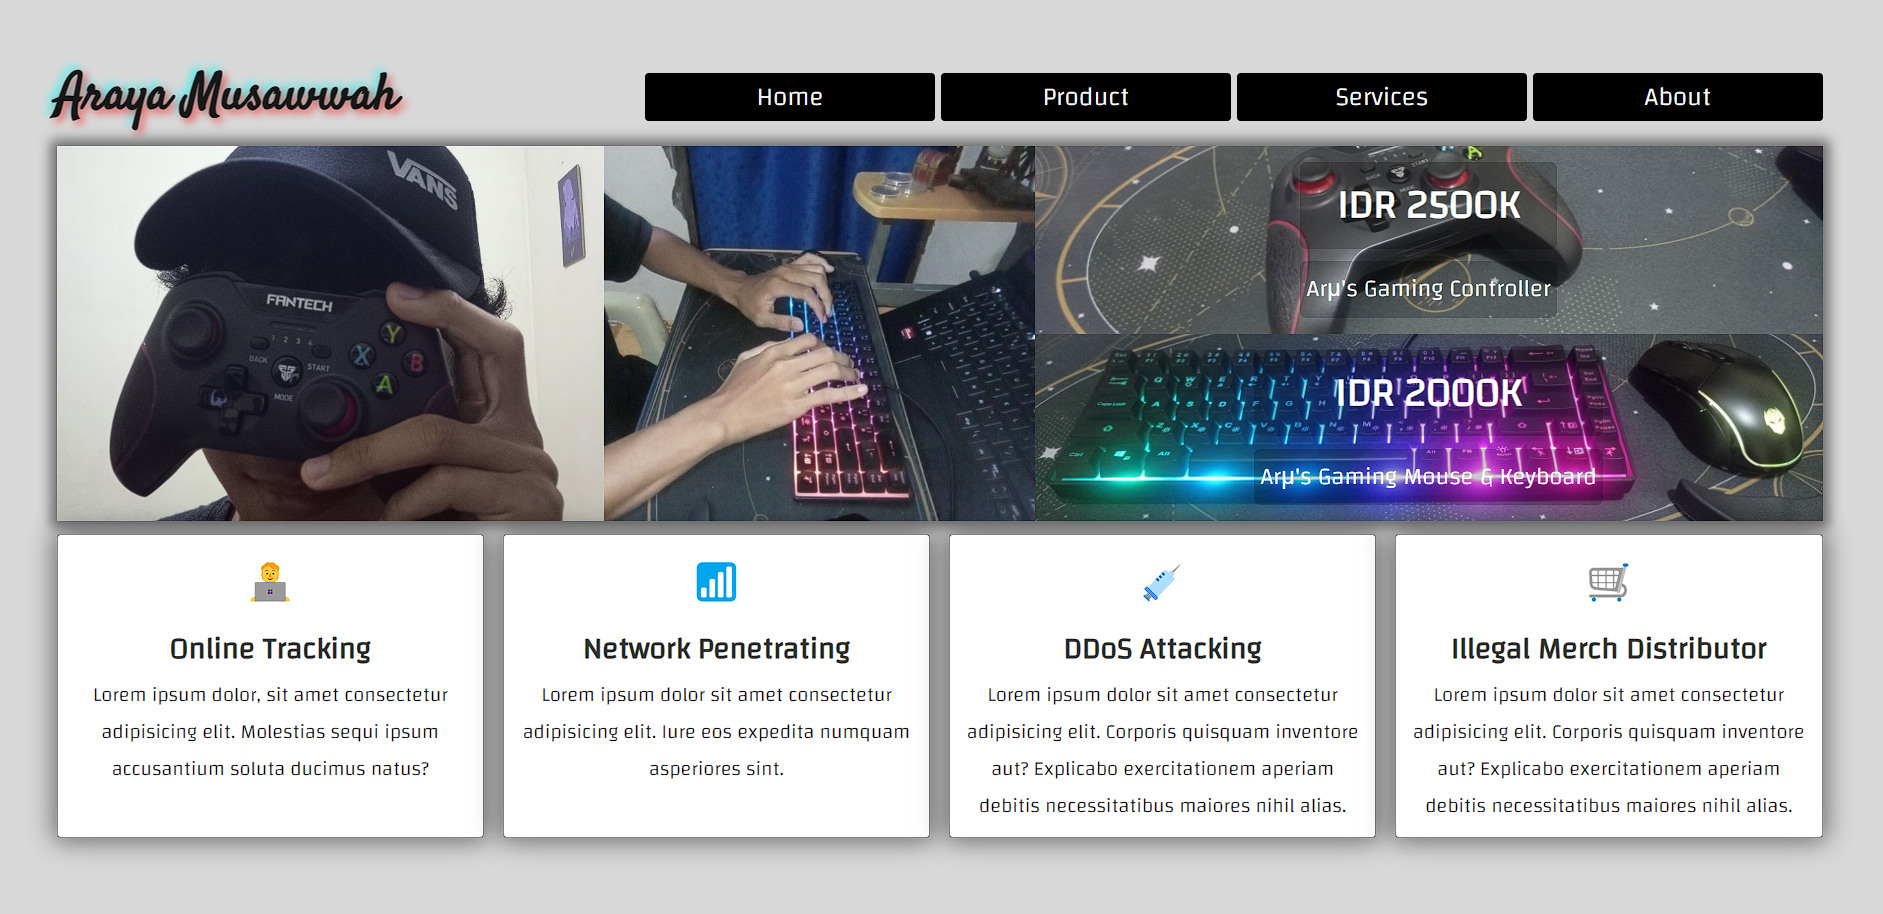
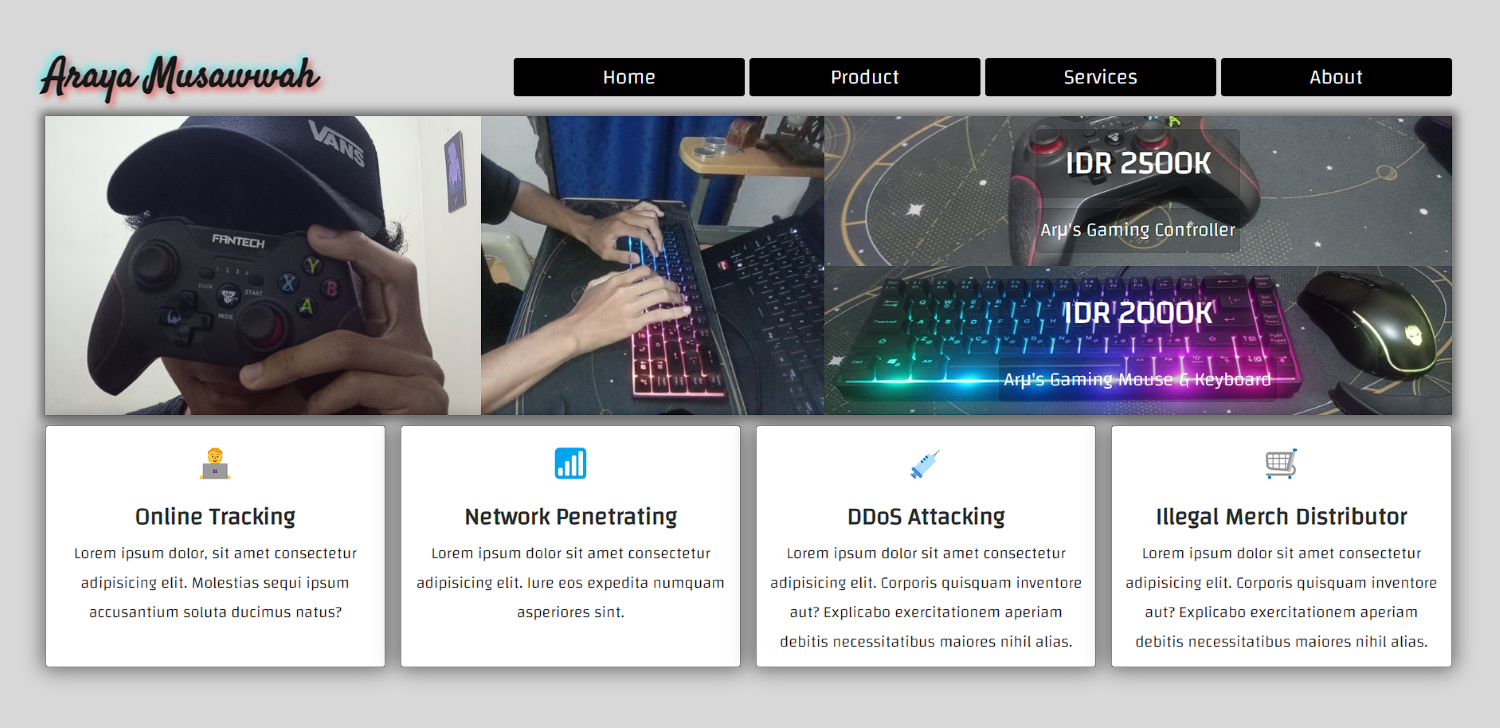
patch update & javascript update

diff --git a/index.html b/index.html
@@ -46,11 +46,11 @@
     <header class="w-full bg-transparent absolute top-0 left-0 flex justify-between items-center z-10">
         <div class="container mx-auto">
             <div class="flex items-center justify-between relative">
-                <div class="px-4 py-4">
-                    <a href="#home" class="text-2xl font-bold text-primary lg:text-3xl block">Araya Musawwah</a>
+                <div class="pl-4 py-4">
+                    <a href="#home" class="text-2xl font-bold text-primary lg:text-xl xl:text-3xl block">Araya Musawwah</a>
                 </div>
                 <div class="flex flex-wrap items-center px-5">
-                    <button id="hamburger"  name="hamburger" type="button" class="block absolute right-4 lg:hidden">
+                    <button id="hamburger"  name="hamburger" type="button" class="inline-block absolute right-4 lg:hidden">
                         <span class="burger origin-top-left"></span>
                         <span class="burger"></span>
                         <span class="burger origin-bottom-left"></span>
@@ -75,11 +75,11 @@
                             <li class="group">
                                 <a href="#contact" class="text-base flex py-2 mx-4 font-bold group-hover:text-primary">Contact</a>
                             </li>
-                            <li class="flex items-center lg:ml-4 font-semibold capitalize px-4 pb-4 pt-2">
+                            <li class="flex items-center lg:ml-4 font-bold capitalize px-4 pb-4 pt-2">
                                 <span class="mr-2">light</span>
                                 <input type="checkbox" class="dark-toggle hidden" id="darkToggle">
                                 <label for="darkToggle">
-                                    <div class="bg-slate-800 dark:bg-slate-400 w-12 h-6 rounded-full flex items-center px-1 cursor-pointer">
+                                    <div class="bg-slate-400 dark:bg-slate-500 w-12 h-6 rounded-full flex items-center px-1 cursor-pointer">
                                         <div class="rounded-full bg-primary w-5 h-5 inset-1 transition duration-300 ease-in-out circle"></div>
                                     </div>
                                 </label>
@@ -93,10 +93,10 @@
     </header>
 
 <!-- Home section -->
-    <section id="home" class="pt-20 sm:pt-40 md:pt-32 dark:text-secondary dark:lg:text-tertiary"> 
+    <section id="home" class="pt-20 sm:pt-40 md:pt-32 dark:text-secondary dark:md:text-tertiary"> 
         <div class="container max-w-full">
-            <div class="flex flex-wrap md:justify-between">
-                <div class="w-full sm:w-10/12 md:w-1/2 self-center justify-center px-4 py-6 md:bg-indigo-200 dark:md:bg-indigo-200 md:border md:border-gray-400/50 md:shadow md:shadow-indigo-500/50 md:text-left md:rounded-tr-[70px] md:rounded-tl-[50px] md:rounded-br-[150px] md:pl-12">
+            <div class="flex flex-wrap md:justify-between md:text-lg">
+                <div class="w-full sm:w-10/12 md:w-1/2 self-center justify-center px-4 py-6 md:bg-indigo-200 dark:md:bg-indigo-200 md:shadow-lg md:shadow-indigo-300/50 md:text-left md:rounded-tr-[70px] md:rounded-tl-[50px] md:rounded-br-[150px] md:pl-12">
                     <h1 class="text-lg">Oh! Hello There, <span class="text-red-500">Wanderer!</span> My Name Is</h1>
                     <h2 class="text-4xl text-primary font-extrabold my-4 lg:text-5xl">Araya Musawwah</h2>
                     <h3 class="my-2 text md font-semibold"><span class="text-teal-600">Frontend Developer</span> | <span class="text-indigo-600">Web Programmer</span></h3>
@@ -104,15 +104,17 @@
                     <button class="rounded-full bg-primary text-white px-6 py-2 mt-6 shadow-lg shadow-primary/50 hover:bg-indigo-600"><a href="#">Hire Me!</a></button>
                 </div>
                 <div class="w-full self-end md:w-[35%] md:mr-10 sm:w-2/3 mx-auto">
-                    <div class="relative mt-4 sm:right-0 w-full">
-                        <img src="img/hero.png" alt="Araya Musawwah" class="w-full bg-top bg-auto">
+                    <div class="relative mt-4 sm:right-0 w-full ">
+                        <div class="rounded-b-[35%] overflow-hidden">
+                            <img src="img/hero.png" alt="Araya Musawwah" class="w-full bg-top">
+                        </div>
                         <svg viewBox="0 0 200 200" xmlns="http://www.w3.org/2000/svg" class="absolute top-0 left-20 -z-10">
                             <path fill="#8A3FFC" d="M70.4,-24.2C78.8,2.9,64.5,36,43.4,48.6C22.4,61.3,-5.4,53.5,-28.9,37.1C-52.4,20.7,-71.6,-4.4,-66,-27.6C-60.5,-50.7,-30.2,-72,0.4,-72.1C31,-72.3,62,-51.2,70.4,-24.2Z" transform="translate(100 100)scale(1.3)" />
                         </svg>
                         <svg viewBox="0 0 200 200" xmlns="http://www.w3.org/2000/svg" class="absolute top-20 right-40 -z-10">
                             <path fill="#8A3FFC" d="M48.3,-18.4C53.8,1.3,43.5,23.5,25.8,36.6C8,49.7,-17.1,53.9,-32.5,43.1C-47.9,32.2,-53.7,6.4,-46.7,-15.3C-39.7,-37.1,-19.8,-54.9,0.8,-55.2C21.4,-55.4,42.8,-38.1,48.3,-18.4Z" transform="translate(30 100) scale(0.3)" />
                         </svg>
-                        <svg viewBox="0 0 200 200" xmlns="http://www.w3.org/2000/svg" class="absolute top-40 left-[30px]">
+                        <svg viewBox="0 0 200 200" xmlns="http://www.w3.org/2000/svg" class="absolute top-40 left-[30px] -z-10 ">
                             <path fill="#8A3FFC" d="M48.3,-18.4C53.8,1.3,43.5,23.5,25.8,36.6C8,49.7,-17.1,53.9,-32.5,43.1C-47.9,32.2,-53.7,6.4,-46.7,-15.3C-39.7,-37.1,-19.8,-54.9,0.8,-55.2C21.4,-55.4,42.8,-38.1,48.3,-18.4Z" transform="translate(15 90) scale(0.3)" />
                         </svg>
                     </div>
@@ -130,7 +132,7 @@
                     <h1 class="text-2xl lg:text-3xl font-bold capitalize">Let's join my adventure together to conquer The Ninth Realm.</h1>
                     <p class="lg:text-lg">Lorem ipsum dolor sit amet consectetur adipisicing elit. Illum incidunt excepturi earum illo sed deleniti! Tempora totam deleniti quidem omnis dolores!</p>
                 </div>
-                <div class="mb-4 md:w-1/2 md:mt-28 md:p-4 -mr-6">
+                <div class="mb-4 md:w-1/2 md:mt-28 md:p-4 px-2">
                     <h2 class="text-xl lg:text-2xl font-semibold text-primary"> Take me with you!</h2>
                     <h1 class="mb-3 lg:text-xl font-semibold">It's dangerous to go out alone.</h1>
                     <p class="lg:text-lg">Lorem ipsum dolor sit amet consectetur adipisicing elit. Neque rem nostrum dolorum ea voluptatem.</p>
@@ -142,7 +144,7 @@
                         <a href="https://instagram.com/elite.iqbal" target="_blank" class="media-icon">
                             <svg class="fill-current" width="20" role="img" viewBox="0 0 24 24" xmlns="http://www.w3.org/2000/svg"><title>Instagram</title><path d="M12 0C8.74 0 8.333.015 7.053.072 5.775.132 4.905.333 4.14.63c-.789.306-1.459.717-2.126 1.384S.935 3.35.63 4.14C.333 4.905.131 5.775.072 7.053.012 8.333 0 8.74 0 12s.015 3.667.072 4.947c.06 1.277.261 2.148.558 2.913.306.788.717 1.459 1.384 2.126.667.666 1.336 1.079 2.126 1.384.766.296 1.636.499 2.913.558C8.333 23.988 8.74 24 12 24s3.667-.015 4.947-.072c1.277-.06 2.148-.262 2.913-.558.788-.306 1.459-.718 2.126-1.384.666-.667 1.079-1.335 1.384-2.126.296-.765.499-1.636.558-2.913.06-1.28.072-1.687.072-4.947s-.015-3.667-.072-4.947c-.06-1.277-.262-2.149-.558-2.913-.306-.789-.718-1.459-1.384-2.126C21.319 1.347 20.651.935 19.86.63c-.765-.297-1.636-.499-2.913-.558C15.667.012 15.26 0 12 0zm0 2.16c3.203 0 3.585.016 4.85.071 1.17.055 1.805.249 2.227.415.562.217.96.477 1.382.896.419.42.679.819.896 1.381.164.422.36 1.057.413 2.227.057 1.266.07 1.646.07 4.85s-.015 3.585-.074 4.85c-.061 1.17-.256 1.805-.421 2.227-.224.562-.479.96-.899 1.382-.419.419-.824.679-1.38.896-.42.164-1.065.36-2.235.413-1.274.057-1.649.07-4.859.07-3.211 0-3.586-.015-4.859-.074-1.171-.061-1.816-.256-2.236-.421-.569-.224-.96-.479-1.379-.899-.421-.419-.69-.824-.9-1.38-.165-.42-.359-1.065-.42-2.235-.045-1.26-.061-1.649-.061-4.844 0-3.196.016-3.586.061-4.861.061-1.17.255-1.814.42-2.234.21-.57.479-.96.9-1.381.419-.419.81-.689 1.379-.898.42-.166 1.051-.361 2.221-.421 1.275-.045 1.65-.06 4.859-.06l.045.03zm0 3.678c-3.405 0-6.162 2.76-6.162 6.162 0 3.405 2.76 6.162 6.162 6.162 3.405 0 6.162-2.76 6.162-6.162 0-3.405-2.76-6.162-6.162-6.162zM12 16c-2.21 0-4-1.79-4-4s1.79-4 4-4 4 1.79 4 4-1.79 4-4 4zm7.846-10.405c0 .795-.646 1.44-1.44 1.44-.795 0-1.44-.646-1.44-1.44 0-.794.646-1.439 1.44-1.439.793-.001 1.44.645 1.44 1.439z"/></svg>
                         </a>
-                        <a href="https://github.com/WatariAuditore" target="_blank" class="media-icon">
+                        <a href="https://github.com/arayaMusawwah" target="_blank" class="media-icon">
                             <svg class="fill-current" width="20" role="img" viewBox="0 0 24 24" xmlns="http://www.w3.org/2000/svg"><title>GitHub</title><path d="M12 .297c-6.63 0-12 5.373-12 12 0 5.303 3.438 9.8 8.205 11.385.6.113.82-.258.82-.577 0-.285-.01-1.04-.015-2.04-3.338.724-4.042-1.61-4.042-1.61C4.422 18.07 3.633 17.7 3.633 17.7c-1.087-.744.084-.729.084-.729 1.205.084 1.838 1.236 1.838 1.236 1.07 1.835 2.809 1.305 3.495.998.108-.776.417-1.305.76-1.605-2.665-.3-5.466-1.332-5.466-5.93 0-1.31.465-2.38 1.235-3.22-.135-.303-.54-1.523.105-3.176 0 0 1.005-.322 3.3 1.23.96-.267 1.98-.399 3-.405 1.02.006 2.04.138 3 .405 2.28-1.552 3.285-1.23 3.285-1.23.645 1.653.24 2.873.12 3.176.765.84 1.23 1.91 1.23 3.22 0 4.61-2.805 5.625-5.475 5.92.42.36.81 1.096.81 2.22 0 1.606-.015 2.896-.015 3.286 0 .315.21.69.825.57C20.565 22.092 24 17.592 24 12.297c0-6.627-5.373-12-12-12"/></svg>
                         </a>
                         <a href="discordapp.com/users/ynarhammargatroid" target="_blank" class="media-icon">
@@ -240,10 +242,10 @@
     </section>
 
 <!-- blog section -->
-    <section id="blog" class="bg-stone-400 dark:bg-stone-700 pt-24 pb-36">
+    <section id="blog" class="bg-stone-400 dark:bg-stone-800 pt-24 pb-36">
         <div class="container mx-auto max-w-full lg:w-10/12">
             <div class="max-w-full mx-auto text-center mb-16 p-4">
-                <h1 class="text-lg lg:text-2xl text-primary font-bold">Blog</h1>
+                <h1 class="text-xl lg:text-2xl text-primary font-bold">Blog</h1>
                 <h2 class="text-3xl font-bold pt-2 pb-6">Our Featured Posts and Blogs</h2>
                 <p> Lorem ipsum dolor sit amet consectetur adipisicing elit. Eaque dolores quidem commodi officia necessitatibus sed quibusdam atque illo itaque cum, adipisci odio cupiditate iure beatae consectetur esse nulla. Iure, vero!</p>
             </div>
@@ -329,7 +331,7 @@
                         <p>Tangerang Selatan</p>
                     </div>
                     <div class="w-full lg:w-1/3  px-4 mb-4 text-secondary">
-                        <h3 class="text-xl mb-3 font-semibold">Category</h3>
+                        <h3 class="text-xl mb-4 font-semibold">Category</h3>
                         <ul>
                             <li>
                                 <a href="#" class="inline-block hover:text-primary mb-3">Gaming Section</a>
@@ -343,7 +345,7 @@
                         </ul>
                     </div>
                     <div class="w-full lg:w-1/3 px-4 mb-4 text-secondary">
-                        <h4 class="text-xl mb-3 font-semibold">Index</h4>
+                        <h4 class="text-xl mb-4 font-semibold">Index</h4>
                         <ul>
                             <li>
                                 <a href="#home" class="inline-block hover:text-primary mb-3">Home</a>
@@ -374,7 +376,7 @@
                         <a href="https://instagram.com/elite.iqbal?igshid=NGVhN2U2NjQ0Yg==" target="_blank" class="media-icon bg-slate-900">
                             <svg class="fill-current" width="20" role="img" viewBox="0 0 24 24" xmlns="http://www.w3.org/2000/svg"><title>Instagram</title><path d="M12 0C8.74 0 8.333.015 7.053.072 5.775.132 4.905.333 4.14.63c-.789.306-1.459.717-2.126 1.384S.935 3.35.63 4.14C.333 4.905.131 5.775.072 7.053.012 8.333 0 8.74 0 12s.015 3.667.072 4.947c.06 1.277.261 2.148.558 2.913.306.788.717 1.459 1.384 2.126.667.666 1.336 1.079 2.126 1.384.766.296 1.636.499 2.913.558C8.333 23.988 8.74 24 12 24s3.667-.015 4.947-.072c1.277-.06 2.148-.262 2.913-.558.788-.306 1.459-.718 2.126-1.384.666-.667 1.079-1.335 1.384-2.126.296-.765.499-1.636.558-2.913.06-1.28.072-1.687.072-4.947s-.015-3.667-.072-4.947c-.06-1.277-.262-2.149-.558-2.913-.306-.789-.718-1.459-1.384-2.126C21.319 1.347 20.651.935 19.86.63c-.765-.297-1.636-.499-2.913-.558C15.667.012 15.26 0 12 0zm0 2.16c3.203 0 3.585.016 4.85.071 1.17.055 1.805.249 2.227.415.562.217.96.477 1.382.896.419.42.679.819.896 1.381.164.422.36 1.057.413 2.227.057 1.266.07 1.646.07 4.85s-.015 3.585-.074 4.85c-.061 1.17-.256 1.805-.421 2.227-.224.562-.479.96-.899 1.382-.419.419-.824.679-1.38.896-.42.164-1.065.36-2.235.413-1.274.057-1.649.07-4.859.07-3.211 0-3.586-.015-4.859-.074-1.171-.061-1.816-.256-2.236-.421-.569-.224-.96-.479-1.379-.899-.421-.419-.69-.824-.9-1.38-.165-.42-.359-1.065-.42-2.235-.045-1.26-.061-1.649-.061-4.844 0-3.196.016-3.586.061-4.861.061-1.17.255-1.814.42-2.234.21-.57.479-.96.9-1.381.419-.419.81-.689 1.379-.898.42-.166 1.051-.361 2.221-.421 1.275-.045 1.65-.06 4.859-.06l.045.03zm0 3.678c-3.405 0-6.162 2.76-6.162 6.162 0 3.405 2.76 6.162 6.162 6.162 3.405 0 6.162-2.76 6.162-6.162 0-3.405-2.76-6.162-6.162-6.162zM12 16c-2.21 0-4-1.79-4-4s1.79-4 4-4 4 1.79 4 4-1.79 4-4 4zm7.846-10.405c0 .795-.646 1.44-1.44 1.44-.795 0-1.44-.646-1.44-1.44 0-.794.646-1.439 1.44-1.439.793-.001 1.44.645 1.44 1.439z"/></svg>
                         </a>
-                        <a href="https://github.com/WatariAuditore" target="_blank" class="media-icon bg-slate-900">
+                        <a href="https://github.com/arayaMusawwah" target="_blank" class="media-icon bg-slate-900">
                             <svg class="fill-current" width="20" role="img" viewBox="0 0 24 24" xmlns="http://www.w3.org/2000/svg"><title>GitHub</title><path d="M12 .297c-6.63 0-12 5.373-12 12 0 5.303 3.438 9.8 8.205 11.385.6.113.82-.258.82-.577 0-.285-.01-1.04-.015-2.04-3.338.724-4.042-1.61-4.042-1.61C4.422 18.07 3.633 17.7 3.633 17.7c-1.087-.744.084-.729.084-.729 1.205.084 1.838 1.236 1.838 1.236 1.07 1.835 2.809 1.305 3.495.998.108-.776.417-1.305.76-1.605-2.665-.3-5.466-1.332-5.466-5.93 0-1.31.465-2.38 1.235-3.22-.135-.303-.54-1.523.105-3.176 0 0 1.005-.322 3.3 1.23.96-.267 1.98-.399 3-.405 1.02.006 2.04.138 3 .405 2.28-1.552 3.285-1.23 3.285-1.23.645 1.653.24 2.873.12 3.176.765.84 1.23 1.91 1.23 3.22 0 4.61-2.805 5.625-5.475 5.92.42.36.81 1.096.81 2.22 0 1.606-.015 2.896-.015 3.286 0 .315.21.69.825.57C20.565 22.092 24 17.592 24 12.297c0-6.627-5.373-12-12-12"/></svg>
                         </a>
                         <a href="discordapp.com/users/ynarhammargatroid" target="_blank" class="media-icon bg-slate-900">
@@ -384,8 +386,8 @@
                             <svg class="fill-current" width="20" role="img" viewBox="0 0 24 24" xmlns="http://www.w3.org/2000/svg"><title>WhatsApp</title><path d="M17.472 14.382c-.297-.149-1.758-.867-2.03-.967-.273-.099-.471-.148-.67.15-.197.297-.767.966-.94 1.164-.173.199-.347.223-.644.075-.297-.15-1.255-.463-2.39-1.475-.883-.788-1.48-1.761-1.653-2.059-.173-.297-.018-.458.13-.606.134-.133.298-.347.446-.52.149-.174.198-.298.298-.497.099-.198.05-.371-.025-.52-.075-.149-.669-1.612-.916-2.207-.242-.579-.487-.5-.669-.51-.173-.008-.371-.01-.57-.01-.198 0-.52.074-.792.372-.272.297-1.04 1.016-1.04 2.479 0 1.462 1.065 2.875 1.213 3.074.149.198 2.096 3.2 5.077 4.487.709.306 1.262.489 1.694.625.712.227 1.36.195 1.871.118.571-.085 1.758-.719 2.006-1.413.248-.694.248-1.289.173-1.413-.074-.124-.272-.198-.57-.347m-5.421 7.403h-.004a9.87 9.87 0 01-5.031-1.378l-.361-.214-3.741.982.998-3.648-.235-.374a9.86 9.86 0 01-1.51-5.26c.001-5.45 4.436-9.884 9.888-9.884 2.64 0 5.122 1.03 6.988 2.898a9.825 9.825 0 012.893 6.994c-.003 5.45-4.437 9.884-9.885 9.884m8.413-18.297A11.815 11.815 0 0012.05 0C5.495 0 .16 5.335.157 11.892c0 2.096.547 4.142 1.588 5.945L.057 24l6.305-1.654a11.882 11.882 0 005.683 1.448h.005c6.554 0 11.89-5.335 11.893-11.893a11.821 11.821 0 00-3.48-8.413Z"/></svg>
                         </a>
                     </div>
-                    <p class="text-slate-700 font-sm">Created By <a href="https://instagram.com/elite.iqbal" class="text-primary font-semibold" target="_blank">Arμ's Group</a>. Powered by <a href="https://tailwindcss.com" class="text-sky-500 font-semibold">TailwindCSS</a>.</p>
-                    <p class="text-slate-700 font-sm">&copy; 2023 All Rights Reserved</p>
+                    <p class="text-slate-700 text-sm pt-4">Created By <a href="https://instagram.com/elite.iqbal" class="text-primary font-semibold" target="_blank">Arμ's Group</a>. Powered by <a href="https://tailwindcss.com" class="text-sky-500 font-semibold">TailwindCSS</a>.</p>
+                    <p class="text-slate-700 text-sm">&copy; 2023 All Rights Reserved</p>
                 </div>
             </div>
         </div>

diff --git a/css/style.css b/css/style.css
@@ -634,7 +634,7 @@ body{
 
 :is(.dark .burger) {
   --tw-bg-opacity: 1;
-  background-color: rgb(255 255 255 / var(--tw-bg-opacity));
+  background-color: rgb(209 213 219 / var(--tw-bg-opacity));
 }
 
 .dark-toggle:checked ~ label div.circle {
@@ -755,10 +755,6 @@ body{
 .my-8 {
   margin-top: 2rem;
   margin-bottom: 2rem;
-}
-
-.-mr-6 {
-  margin-right: -1.5rem;
 }
 
 .mb-1 {
@@ -967,6 +963,11 @@ body{
   border-radius: 0.75rem;
 }
 
+.rounded-b-\[35\%\] {
+  border-bottom-right-radius: 35%;
+  border-bottom-left-radius: 35%;
+}
+
 .border-t {
   border-top-width: 1px;
 }
@@ -994,6 +995,11 @@ body{
 .bg-slate-300 {
   --tw-bg-opacity: 1;
   background-color: rgb(203 213 225 / var(--tw-bg-opacity));
+}
+
+.bg-slate-400 {
+  --tw-bg-opacity: 1;
+  background-color: rgb(148 163 184 / var(--tw-bg-opacity));
 }
 
 .bg-slate-800 {
@@ -1025,10 +1031,6 @@ body{
   background-color: rgb(212 212 216 / var(--tw-bg-opacity));
 }
 
-.bg-auto {
-  background-size: auto;
-}
-
 .bg-center {
   background-position: center;
 }
@@ -1053,6 +1055,11 @@ body{
 .px-1 {
   padding-left: 0.25rem;
   padding-right: 0.25rem;
+}
+
+.px-2 {
+  padding-left: 0.5rem;
+  padding-right: 0.5rem;
 }
 
 .px-4 {
@@ -1142,6 +1149,10 @@ body{
 
 .pt-4 {
   padding-top: 1rem;
+}
+
+.pl-4 {
+  padding-left: 1rem;
 }
 
 .text-center {
@@ -1420,9 +1431,9 @@ body{
   background-color: rgb(17 24 39 / var(--tw-bg-opacity));
 }
 
-:is(.dark .dark\:bg-slate-400) {
+:is(.dark .dark\:bg-slate-500) {
   --tw-bg-opacity: 1;
-  background-color: rgb(148 163 184 / var(--tw-bg-opacity));
+  background-color: rgb(100 116 139 / var(--tw-bg-opacity));
 }
 
 :is(.dark .dark\:bg-slate-700) {
@@ -1458,6 +1469,11 @@ body{
 :is(.dark .dark\:bg-zinc-800) {
   --tw-bg-opacity: 1;
   background-color: rgb(39 39 42 / var(--tw-bg-opacity));
+}
+
+:is(.dark .dark\:bg-stone-800) {
+  --tw-bg-opacity: 1;
+  background-color: rgb(41 37 36 / var(--tw-bg-opacity));
 }
 
 :is(.dark .dark\:text-secondary) {
@@ -1496,6 +1512,11 @@ body{
 
   .sm\:w-2\/3 {
     width: 66.666667%;
+  }
+
+  .sm\:px-4 {
+    padding-left: 1rem;
+    padding-right: 1rem;
   }
 
   .sm\:pt-40 {
@@ -1541,14 +1562,6 @@ body{
     border-top-right-radius: 70px;
   }
 
-  .md\:border {
-    border-width: 1px;
-  }
-
-  .md\:border-gray-400\/50 {
-    border-color: rgb(156 163 175 / 0.5);
-  }
-
   .md\:bg-indigo-200 {
     --tw-bg-opacity: 1;
     background-color: rgb(199 210 254 / var(--tw-bg-opacity));
@@ -1591,20 +1604,35 @@ body{
     text-align: left;
   }
 
-  .md\:shadow {
-    --tw-shadow: 0 1px 3px 0 rgb(0 0 0 / 0.1), 0 1px 2px -1px rgb(0 0 0 / 0.1);
-    --tw-shadow-colored: 0 1px 3px 0 var(--tw-shadow-color), 0 1px 2px -1px var(--tw-shadow-color);
+  .md\:text-lg {
+    font-size: 1.125rem;
+    line-height: 1.75rem;
+  }
+
+  .md\:text-xl {
+    font-size: 1.25rem;
+    line-height: 1.75rem;
+  }
+
+  .md\:shadow-lg {
+    --tw-shadow: 0 10px 15px -3px rgb(0 0 0 / 0.1), 0 4px 6px -4px rgb(0 0 0 / 0.1);
+    --tw-shadow-colored: 0 10px 15px -3px var(--tw-shadow-color), 0 4px 6px -4px var(--tw-shadow-color);
     box-shadow: var(--tw-ring-offset-shadow, 0 0 #0000), var(--tw-ring-shadow, 0 0 #0000), var(--tw-shadow);
   }
 
-  .md\:shadow-indigo-500\/50 {
-    --tw-shadow-color: rgb(99 102 241 / 0.5);
+  .md\:shadow-indigo-300\/50 {
+    --tw-shadow-color: rgb(165 180 252 / 0.5);
     --tw-shadow: var(--tw-shadow-colored);
   }
 
   :is(.dark .dark\:md\:bg-indigo-200) {
     --tw-bg-opacity: 1;
     background-color: rgb(199 210 254 / var(--tw-bg-opacity));
+  }
+
+  :is(.dark .dark\:md\:text-tertiary) {
+    --tw-text-opacity: 1;
+    color: rgb(30 41 59 / var(--tw-text-opacity));
   }
 }
 
@@ -1713,14 +1741,21 @@ body{
     background-color: transparent;
   }
 
-  :is(.dark .dark\:lg\:text-tertiary) {
-    --tw-text-opacity: 1;
-    color: rgb(30 41 59 / var(--tw-text-opacity));
-  }
-
   :is(.dark .lg\:dark\:shadow-none) {
     --tw-shadow: 0 0 #0000;
     --tw-shadow-colored: 0 0 #0000;
     box-shadow: var(--tw-ring-offset-shadow, 0 0 #0000), var(--tw-ring-shadow, 0 0 #0000), var(--tw-shadow);
+  }
+}
+
+@media (min-width: 1280px) {
+  .xl\:text-3xl {
+    font-size: 1.875rem;
+    line-height: 2.25rem;
+  }
+
+  .xl\:text-xl {
+    font-size: 1.25rem;
+    line-height: 1.75rem;
   }
 }

diff --git a/script.js b/script.js
@@ -27,6 +27,14 @@ hamburger.addEventListener('click', () => {
     navMenu.classList.toggle('hidden');
 });
 
+//Outside Burger
+
+window.addEventListener('click', (e) =>{
+    if(e.target != hamburger && e.tagret != navMenu){
+        hamburger.classList.remove('hamburger-active');
+        navMenu.classList.add('hidden');
+    }
+});
 
 const html = document.querySelector('html');
 const darkToggle = document.querySelector('.dark-toggle');
@@ -34,6 +42,8 @@ const darkToggle = document.querySelector('.dark-toggle');
 darkToggle.addEventListener('click', () =>{
     darkToggle.checked ? html.classList.add('dark') : html.classList.remove('dark');
 });
+
+
 
 if (localStorage.theme === 'dark' || (!('theme' in localStorage) && window.matchMedia('(prefers-color-scheme: dark)').matches)) {
     darkToggle.checked = true;

diff --git a/src/input.css b/src/input.css
@@ -18,7 +18,7 @@
     }
 
     .burger{
-        @apply w-[30px] h-[2px] bg-black dark:bg-white block my-2 rounded-full transition-all duration-300 ease-in-out;
+        @apply w-[30px] h-[2px] bg-black dark:bg-secondary block my-2 rounded-full transition-all duration-300 ease-in-out;
     }
 
     .dark-toggle:checked ~ label div.circle{
